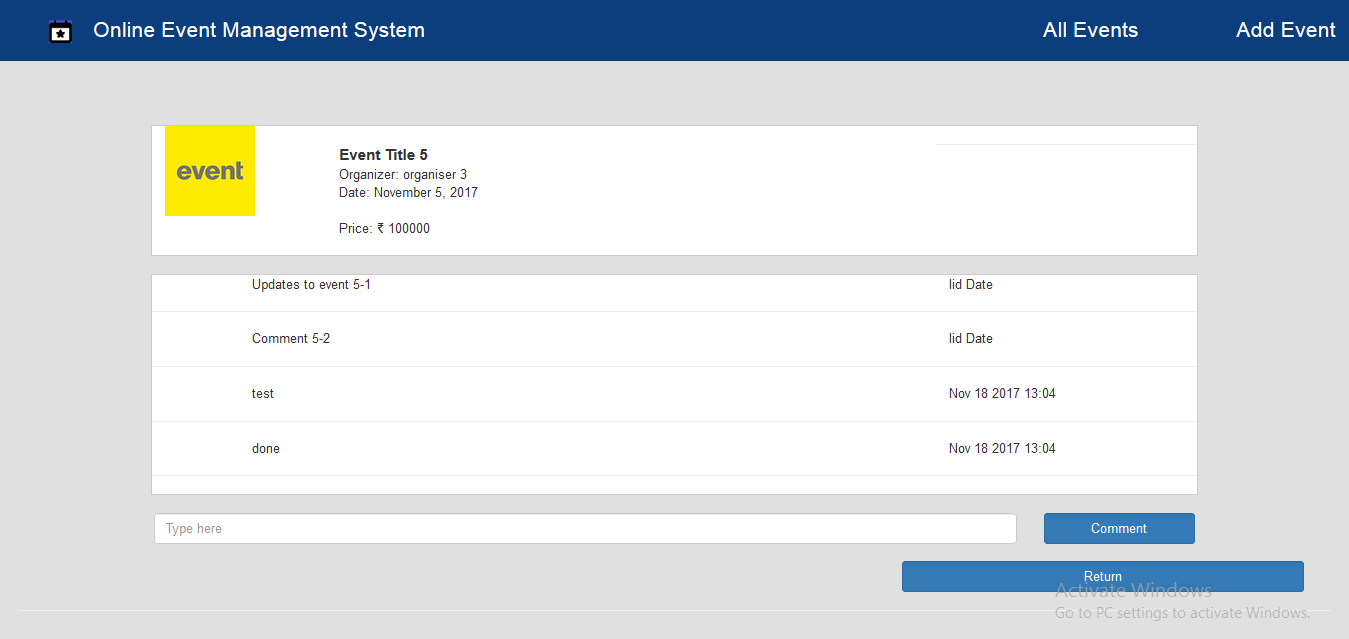
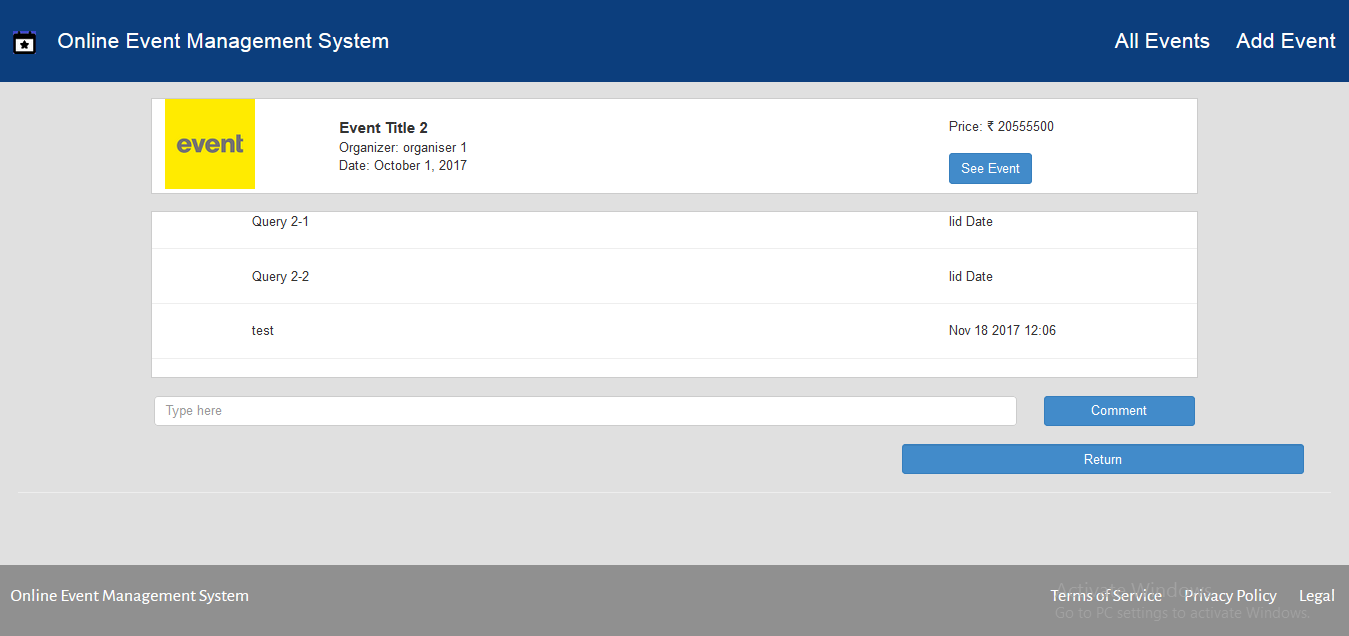
minor update

diff --git a/individual.html b/individual.html
@@ -46,9 +46,11 @@
 								Date: {{event.date}}<br>
 								<div ng-if="event.myCustomProperty.length > 0">Speciality: {{event.myCustomProperty}}</div>
 								<br>
-				                Price: &#x20b9; {{event.price}} <br/><br/>
 							</div>
 							<div class="col-md-3">
+								<br>
+				                Price: &#x20b9; {{event.price}} <br/><br/>
+				                <a class="btn btn-primary" ng-click="getEvent(event.id)">See Event</a><br/>
 							</div>
 							<hr>
 						</div>
@@ -80,7 +82,7 @@
 								<input class="form-control" id="search" type="text" placeholder="Type here" ng-model="body">
 							</div>
 							<div class="col-md-2">
-								<a class="form-control btn-primary btn" ng-click="reply()">Comment</a>
+								<input class="form-control btn-primary btn" id="submit" ng-click="reply()" value="Comment"/>
 							</div>
 						</div>
 					</div>
@@ -91,7 +93,7 @@
 				<div class="row">
 					<div class="col-md-8"></div>
 					<div class="col-md-4">
-						<a class="form-control btn-primary btn" ng-click="back()">Return</a>
+						<input class="form-control btn-primary btn" id="submit" ng-click="back()" value="Return"/>
 					</div>
 				</div>
 			</div>

diff --git a/get.js b/get.js
@@ -4,7 +4,6 @@ my_app.controller("MainController", function($scope, $http){
 	var url4= "https://eventmanager-server.herokuapp.com/events?organiser=";
 	$scope.user = {}	// initializing memory
 	var info;			// initializing memory
-	$scope.data = 1;	// initializing page
 	
 	$scope.filter = function(){		//filter acc to organizer
 		$scope.events.length=0;
@@ -19,7 +18,6 @@ my_app.controller("MainController", function($scope, $http){
 	}
 
 	$scope.getEvents = function(){		//gets events in pages with limit 3
-		console.log(url+$scope.data+"&_limit=3");
 		$http.get(url+$scope.data+"&_limit=3").then(
 		function(response){
 			console.log(response);

diff --git a/individual.js b/individual.js
@@ -32,7 +32,6 @@ my_app.controller("EventController", function($scope, $http){
 	}
 	$scope.reply = function(){		//commenting
 		info = {"body": $scope.body, "postId": $scope.id}
-		$scope.body = "";
 		console.log(info);
 		$http.post(url2, info).then(
 		function(response){

diff --git a/index.php b/index.php
@@ -27,7 +27,7 @@
 		    </div>
     	</nav>
 
-		<br><br><br><br><br><br><br><br><br>
+		<br><br><br><br><br><br>
 
 		<div class="container-fluid">
 			<div class="row">
@@ -39,10 +39,10 @@
 					            <input class="form-control" id="search" type="text" placeholder="Type here" ng-model="organiser" />
 					        </div>
 							<div class="col-md-4">
-					            <a class="form-control btn-primary btn" ng-click="filter()">Search</a>
+					            <input class="form-control btn-primary btn" id="submit" ng-click="filter()" value="Search"/>
 					        </div>
 							<div class="col-md-4">
-					            <a class="form-control btn-primary btn" ng-click="discard()">Discard Filter</a>
+					            <input class="form-control btn-danger btn" id="submit" ng-click="discard()" value="Discard Filter"/>
 					        </div>
 				        </div>
 					</div>
@@ -104,13 +104,13 @@
 					<div class="col-md-11">
 						<div class="form-group row">
 							<div class="col-md-4">
-								<a class="form-control btn-primary btn" ng-click="next()">Next</a>
+								<input class="form-control btn-primary btn" id="submit" ng-click="next()" value="Next"/>
 							</div>
 							<div class="col-md-4">
-							    <a class="form-control btn-success btn" ng-click="addEvent()">Add Event</a>
+							    <input class="form-control btn-success btn" id="submit" ng-click="addEvent()" value="Add Event"/>
 							</div>
 							<div class="col-md-4">
-								<a class="form-control btn-primary btn" ng-click="back()" ng-if="data>1">Back</a> 
+								<input class="form-control btn-primary btn" id="submit" ng-click="back()" ng-if="data>1" value="Back"/>
 							</div>
 						</div>
 					</div>

diff --git a/README.md b/README.md
@@ -16,9 +16,6 @@ Assignment for Internship
 ## Deplyoment
 On [Heroku](https://basic-account.herokuapp.com/)
 
-## Deplyoment
-On Heroku https://basic-account.herokuapp.com/
-
 ## Screenshots
 
 ![Index Page](screenshots/index.png "All events 3 in a Page")
